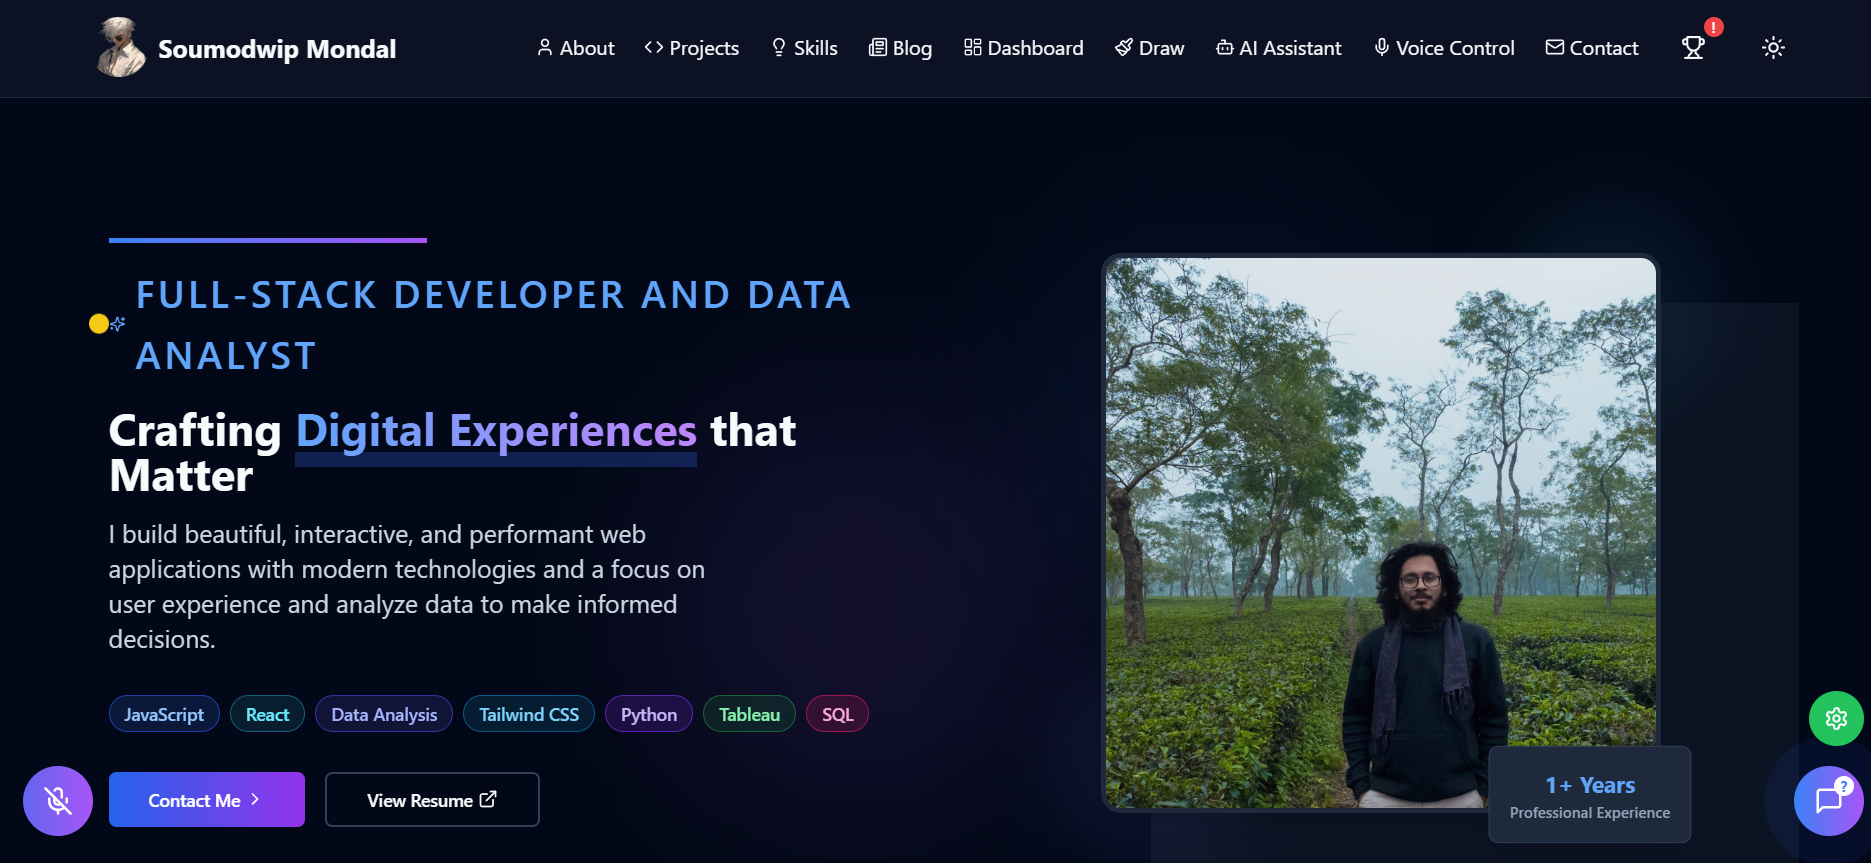
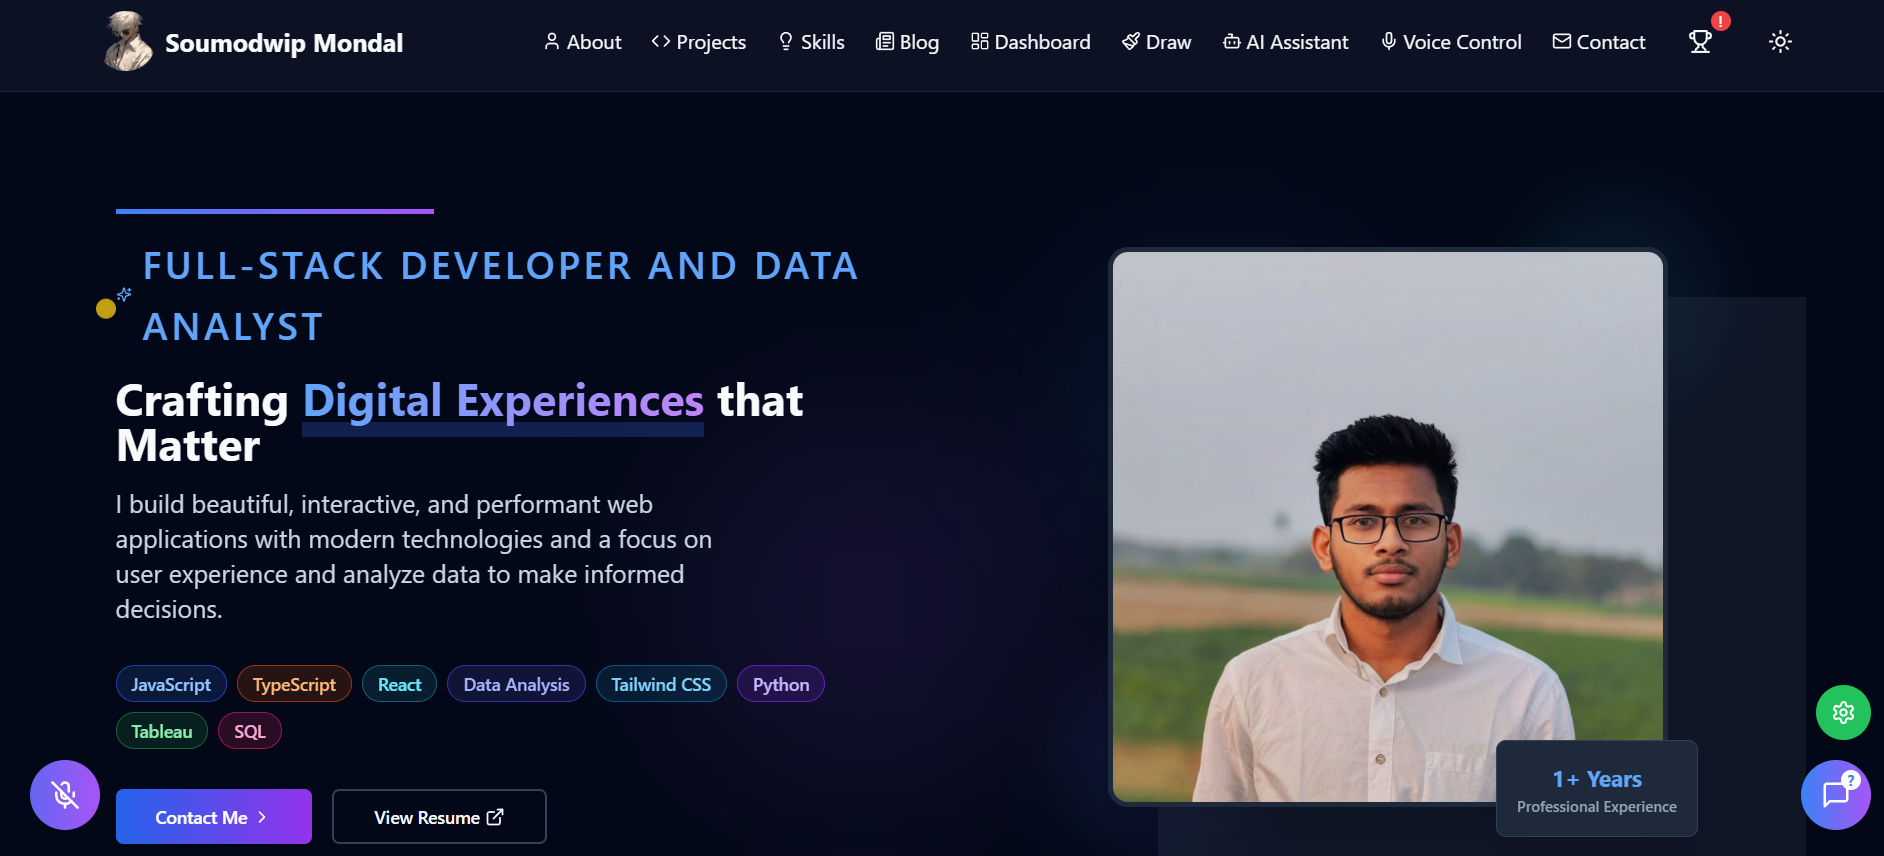
Refactor code structure for improved readability and maintainability

diff --git a/src/components/sections/hero.tsx b/src/components/sections/hero.tsx
@@ -6,7 +6,7 @@ import { Button } from '../ui/button';
 import { Badge } from '../ui/badge';
 import { ChevronRight, ExternalLink, Sparkles } from 'lucide-react';
 import { Link } from 'react-router-dom'; // Import Link from react-router-dom
-import image from '../../assets/MyImage.jpg';
+import image from '../../assets/myPhoto.jpg';
 import resume from '../../assets/Soumodwip_Mondal_Resume.pdf'; // Uncommented the resume import
 
 export default function Hero() {
